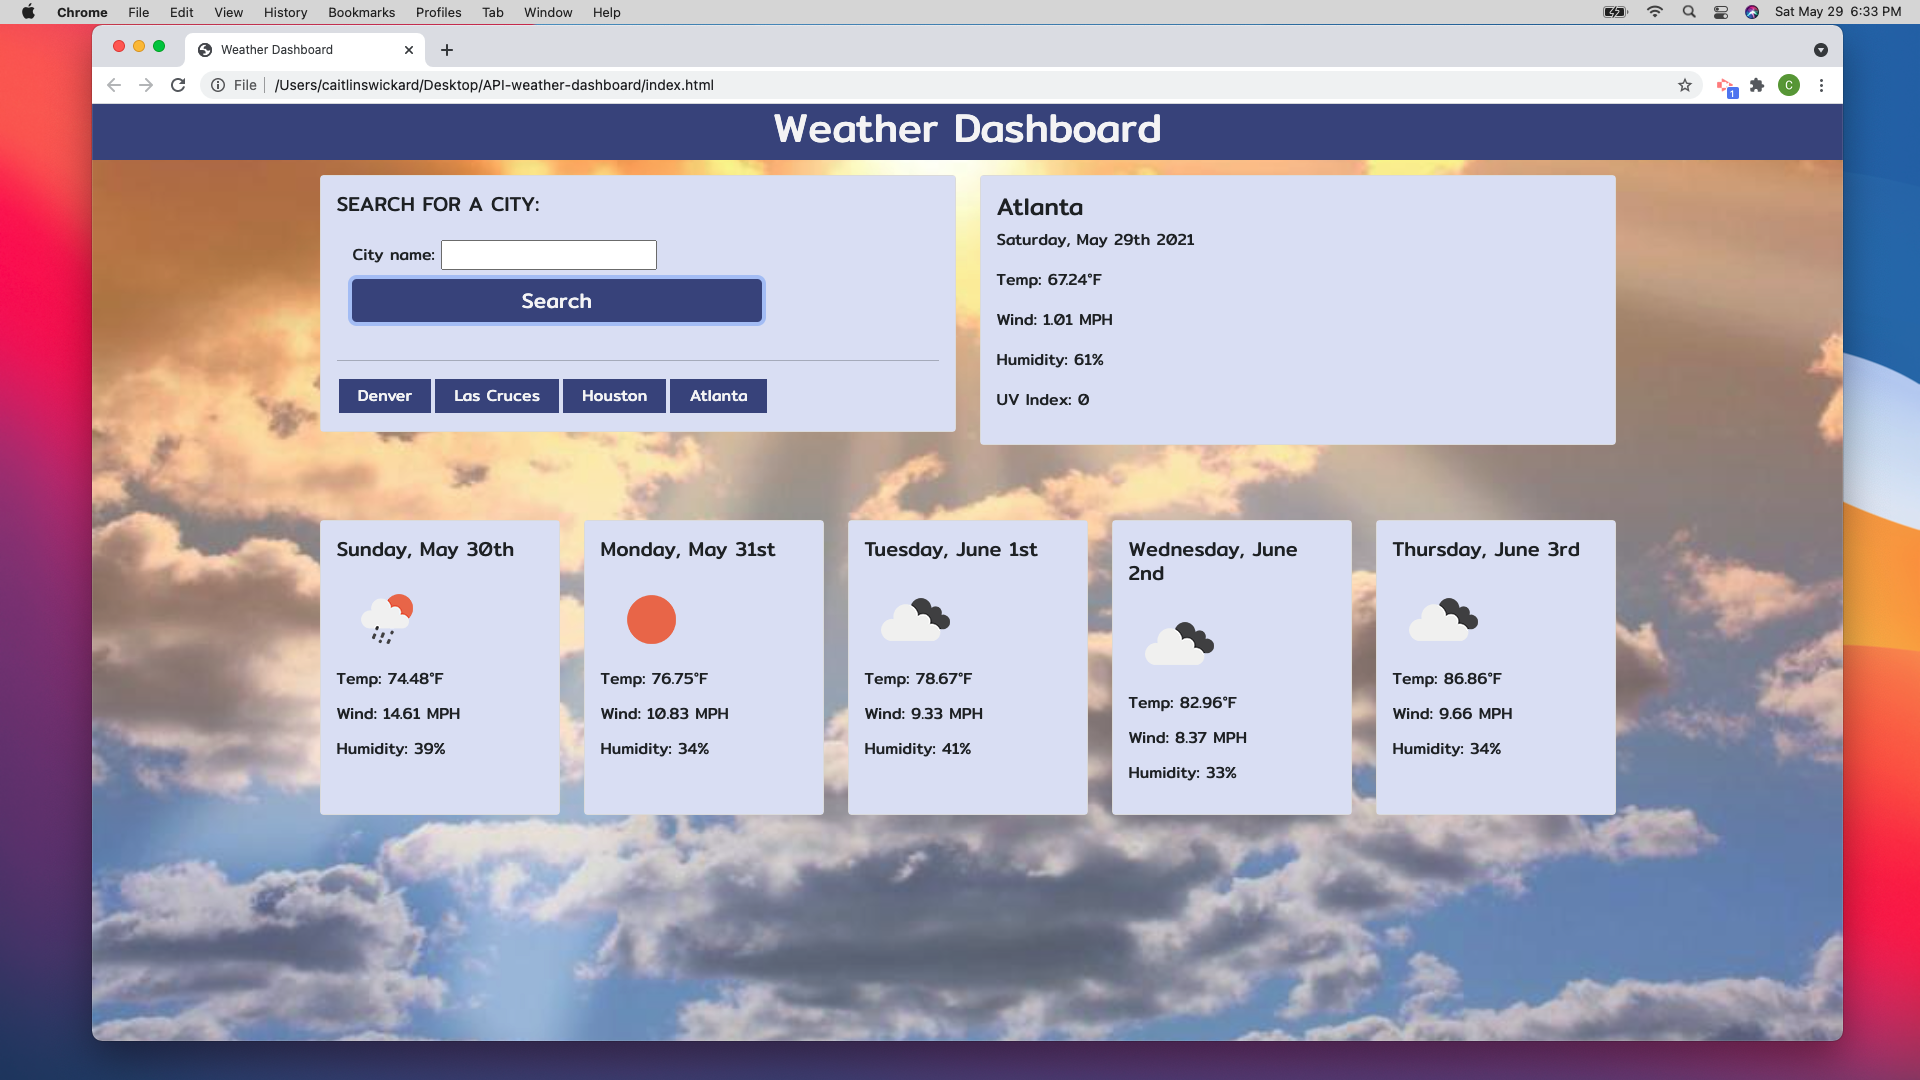
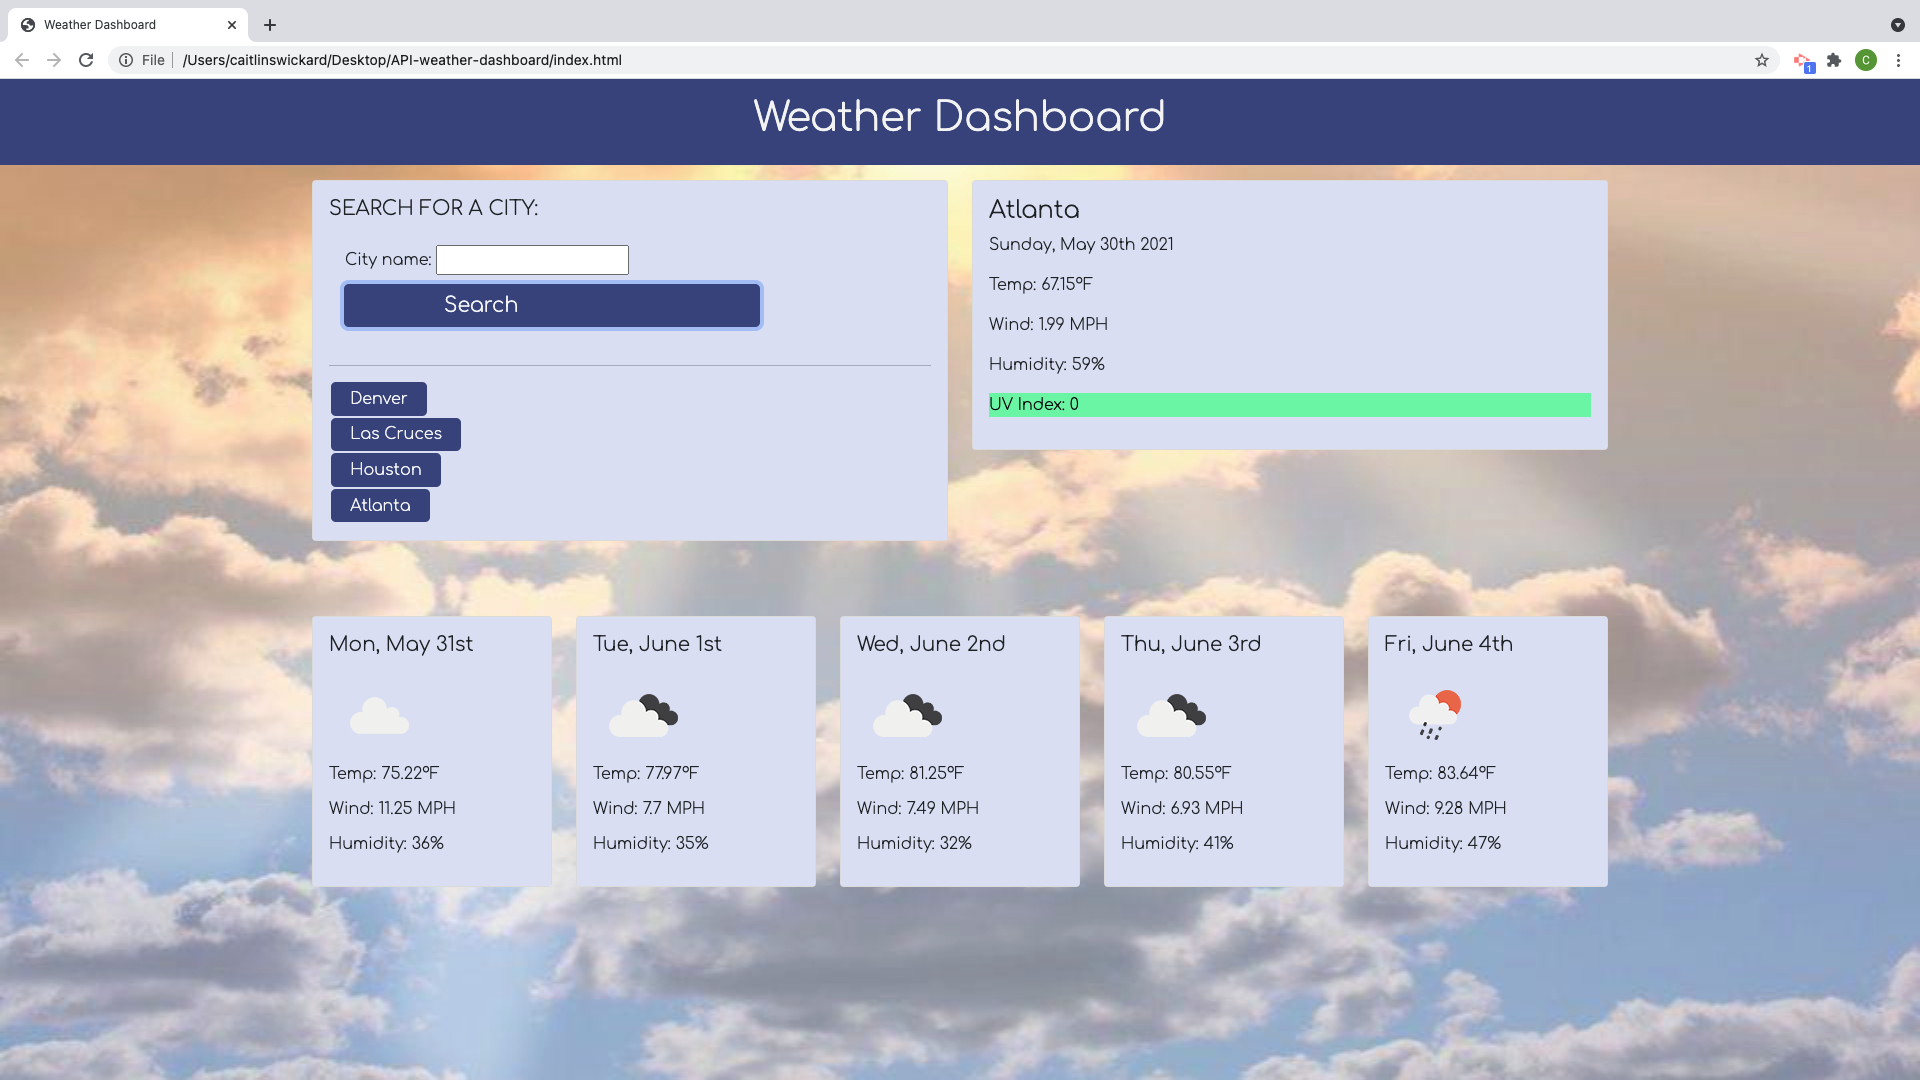
Corretion of uvIndex function, update to photos for readme

diff --git a/script.js b/script.js
@@ -90,11 +90,11 @@ function displayCityWeather(city) {
   humidity.textContent = 'Humidity:' + " " + data.current.humidity + '%';
   uvIndex.textContent = 'UV Index:' + " " + data.current.uvi;
 
-  // if else statements for UVIndex rating for low, moderate and high
-  if (uvIndex <= 2) {
+  // conditional statement for UVIndex rating for low, moderate and high
+  if (Math.floor(data.current.uvi) <= 2) {
     // adding color from css
     uvIndex.classList.add("low");
-  } else if (uvIndex >= 3 && uvIndex <= 7) {
+  } else if (Math.floor(data.current.uvi) >= 3 && Math.floor(data.current.uvi) <= 7) {
     uvIndex.classList.add("moderate");
   } else {
     uvIndex.classList.add("high");
@@ -127,7 +127,7 @@ function displayFutureForecasts(city) {
     const humidity = document.createElement('p');
 
     // assigning value to text content
-    date.textContent = moment().add((i + 1), 'days').format('dddd, MMMM Do')
+    date.textContent = moment().add((i + 1), 'days').format('ddd, MMMM Do')
     icon.setAttribute("src", "http://openweathermap.org/img/wn/" + data.daily[i].weather[0].icon + "@2x.png");
     temp.textContent = 'Temp:' + " " + data.daily[i].temp.day + '°F';
     wind.textContent = 'Wind:' + " " + data.daily[i].wind_speed + " " + 'MPH';

diff --git a/style.css b/style.css
@@ -77,15 +77,15 @@ button {
 }
 
 .card-body {
-  background-color: #dce3f5; 
+  background-color: #c7d3f2; 
 }
 
 
 /* uvIndex rating */
-
 .low {
   background-color: #7df5ad;
   color: black;
+  padding-left: 0px;
 }
 
 .moderate {

diff --git a/readme.md b/readme.md
@@ -4,7 +4,7 @@ This project is a Weather Dashboard for a city that the user wants to look up. T
 
 
 
-[View deployed page here!]()
+[View deployed page here!](https://caitlinswickard.github.io/API-Weather-Dashboard/)
 
 ### Criteria
 
